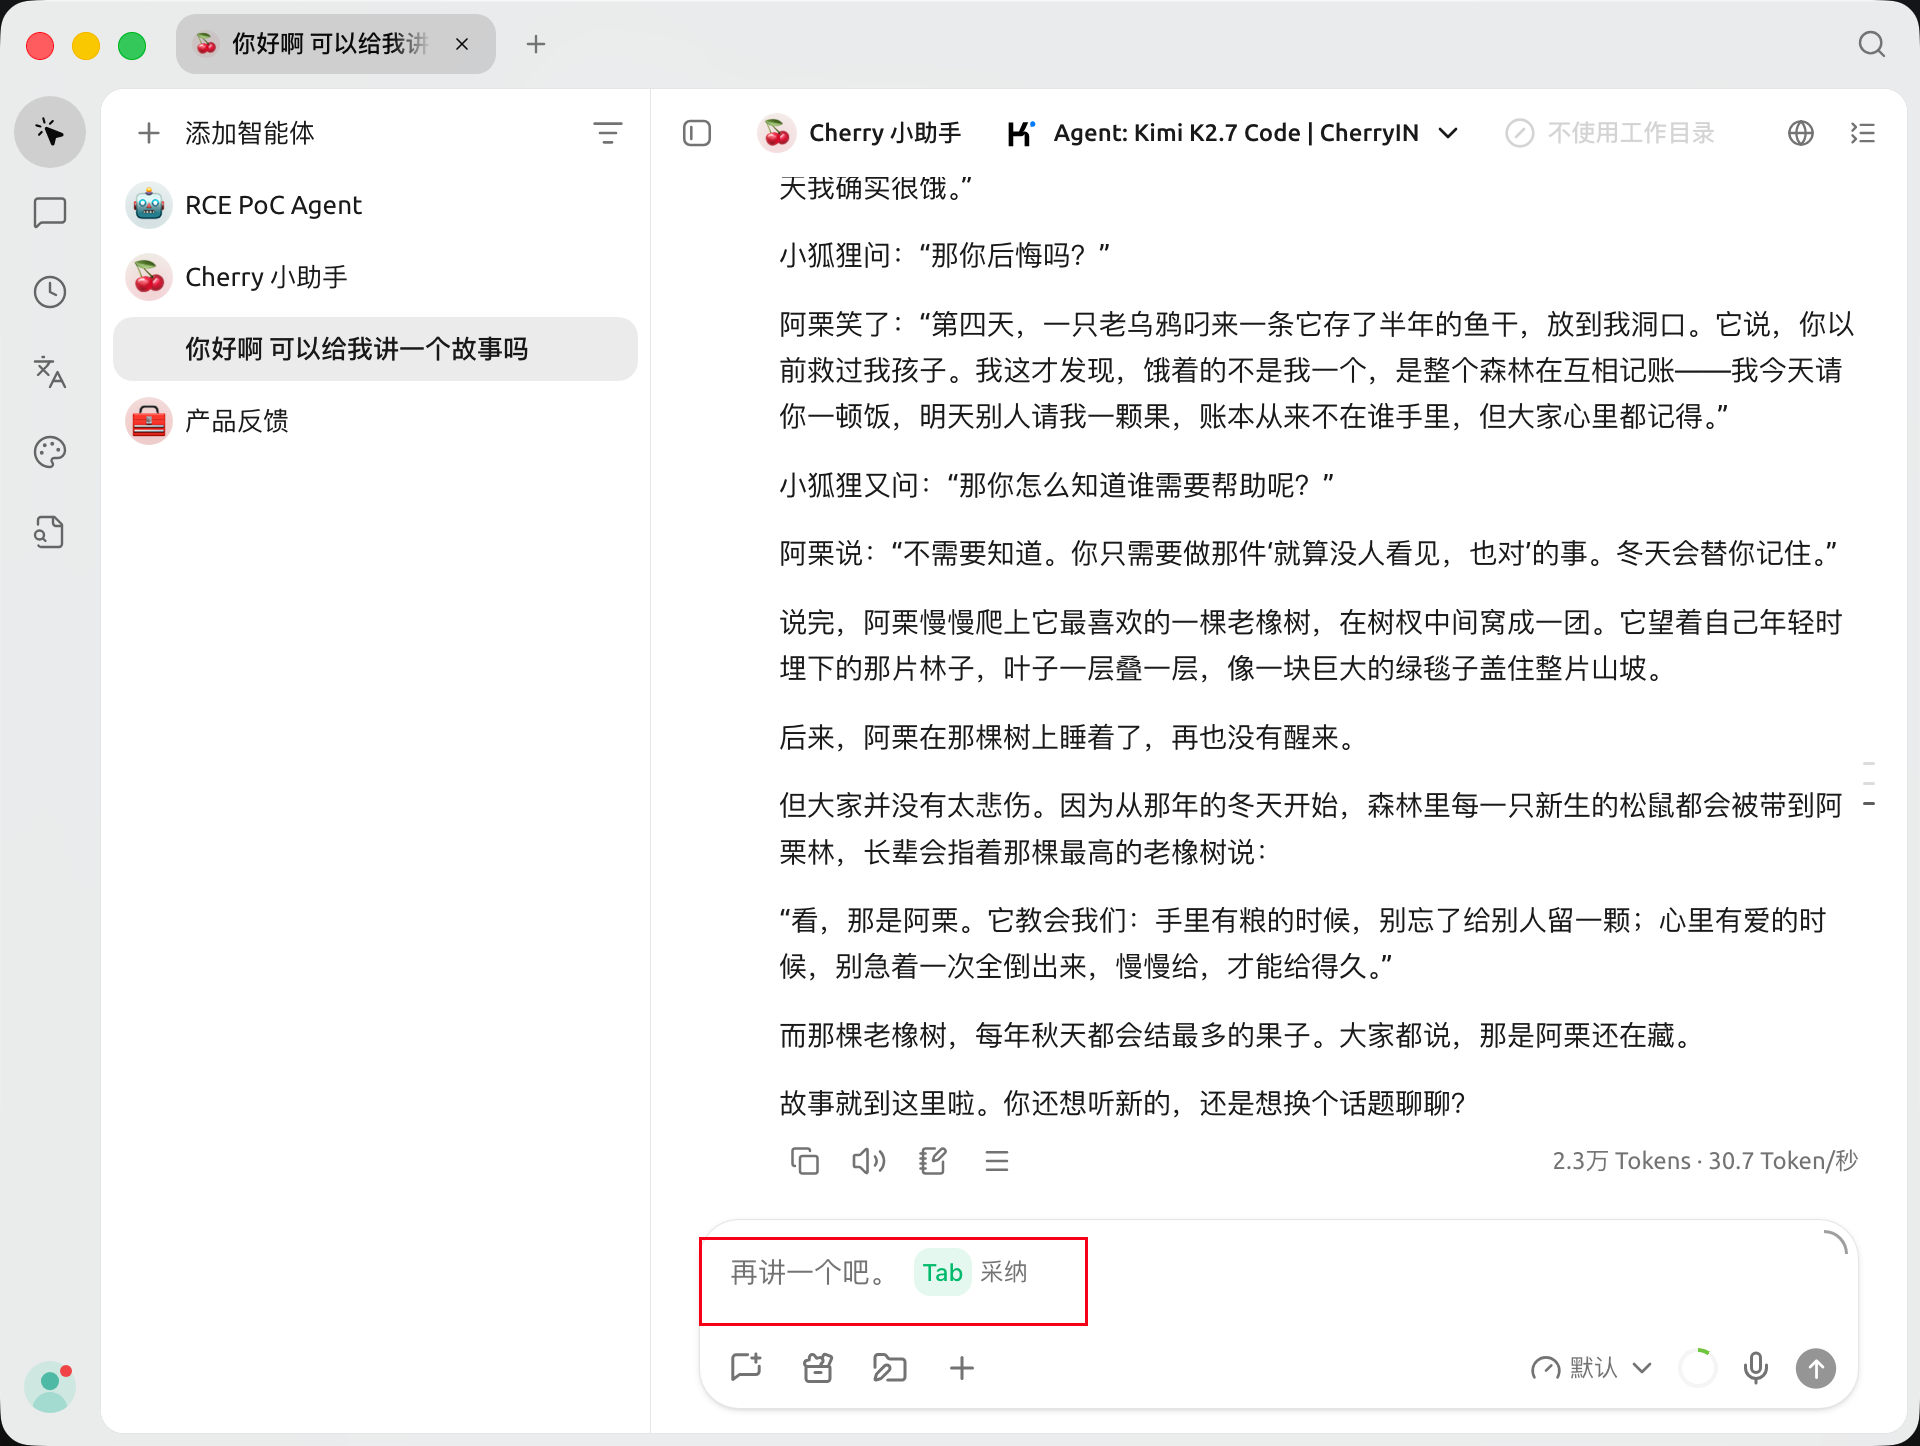
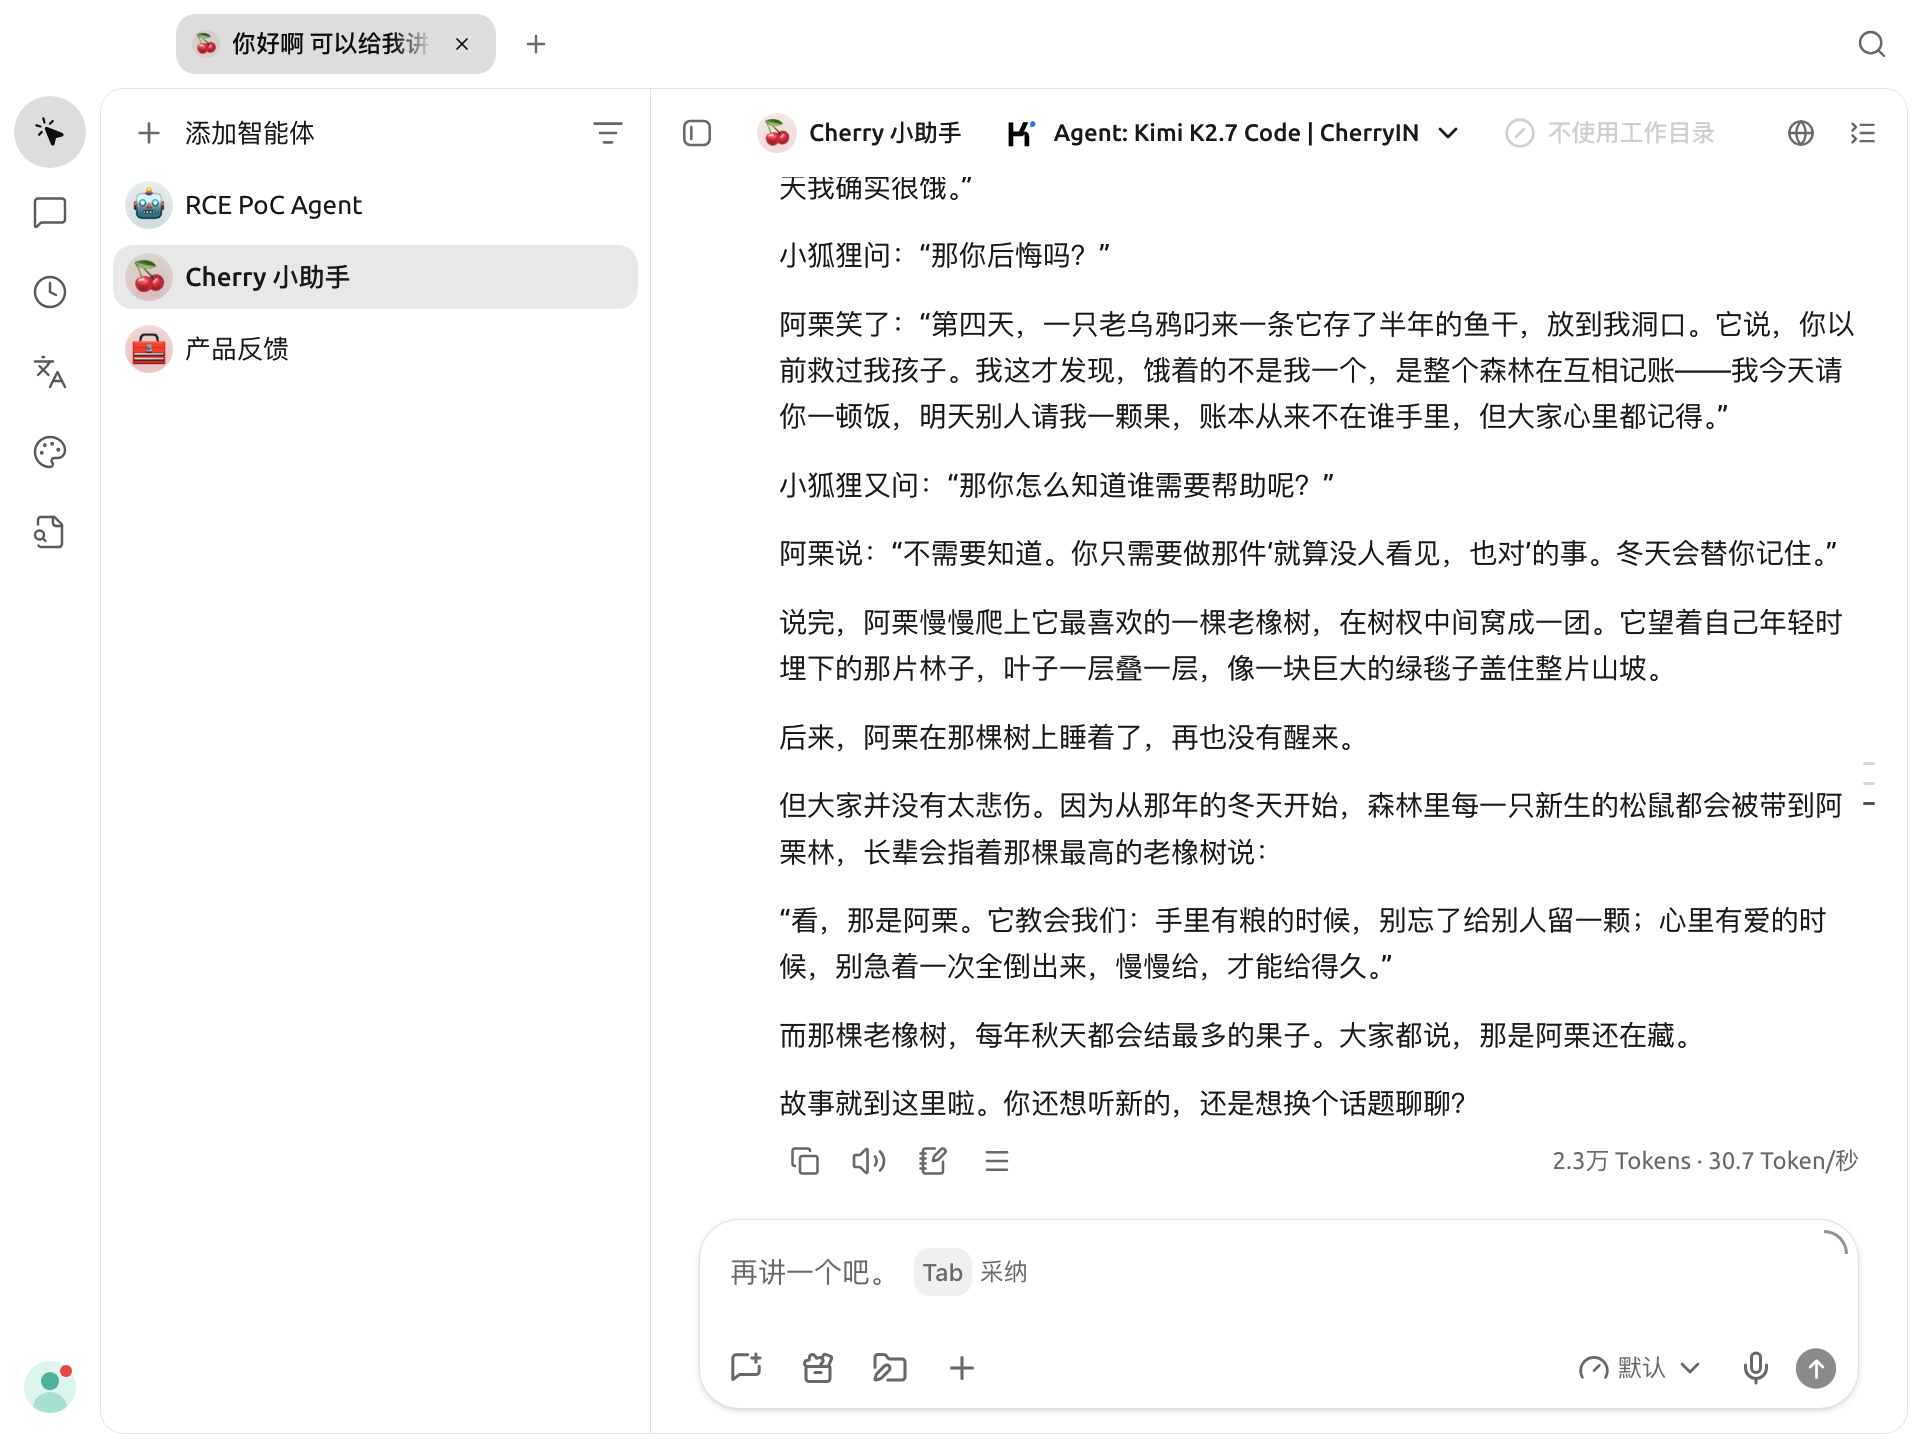
perf(agent-composer): start suggestions promptly with smaller context

diff --git a/src/renderer/components/composer/variants/__tests__/useAgentPromptSuggestion.test.ts b/src/renderer/components/composer/variants/__tests__/useAgentPromptSuggestion.test.ts
@@ -39,7 +39,7 @@ afterEach(() => vi.useRealTimers())
 
 async function complete(rerender: (props: typeof initial) => void, props = initial) {
   rerender({ ...props, busy: false })
-  await act(() => vi.advanceTimersByTimeAsync(300))
+  await act(() => vi.advanceTimersByTimeAsync(0))
 }
 
 it('predicts after completion without adding tools, attachments, or reasoning to context', async () => {
@@ -83,6 +83,19 @@ it.each([
   const { rerender } = renderHook(useAgentPromptSuggestion, { initialProps: props })
   await complete(rerender, props)
   expect(request).toHaveBeenCalledWith('ai.text.generate', expect.objectContaining({ reasoningEffort: expected }))
+})
+
+it('bounds prediction context while retaining the latest text from each message', async () => {
+  const props: typeof initial = {
+    ...initial,
+    messages: [{ ...reply('long'), parts: [{ type: 'text' as const, text: 'old'.repeat(1000) + 'LATEST' }] }]
+  }
+  const { rerender } = renderHook(useAgentPromptSuggestion, { initialProps: props })
+  await complete(rerender, props)
+  const call = request.mock.calls.find(([route]) => route === 'ai.text.generate')![1] as { prompt: string }
+  const context = JSON.parse(call.prompt)
+  expect(context[0].text).toHaveLength(1000)
+  expect(context[0].text.endsWith('LATEST')).toBe(true)
 })
 
 it('does not spend a request when opening history or when disabled or unsuccessful', async () => {

diff --git a/src/renderer/components/composer/variants/agent/useAgentPromptSuggestion.ts b/src/renderer/components/composer/variants/agent/useAgentPromptSuggestion.ts
@@ -46,7 +46,7 @@ export function useAgentPromptSuggestion({
           .filter((part) => part.type === 'text')
           .map((part) => part.text)
           .join('\n')
-          .slice(-2000)
+          .slice(-1000)
       }))
     )
   }, [busy, messages])
@@ -95,7 +95,7 @@ export function useAgentPromptSuggestion({
           }
         })
         .catch(() => undefined)
-    }, 300)
+    }, 0)
     return () => {
       cancelled = true
       clearTimeout(timer)

diff --git a/.agents/notes/proposed/feature/2026-11-14-agent-prompt-suggestions.md b/.agents/notes/proposed/feature/2026-11-14-agent-prompt-suggestions.md
@@ -12,7 +12,7 @@ After an Agent reply, users often type a short follow-up whose intent is already
 
 Enable `agent.input.suggestions.enabled` by default, with an opt-out in the input settings. Only the Agent session composer supplies suggestions; ordinary chat and message editing do not. The user confirmed the default-on behavior during development.
 
-After observing a running turn complete successfully, wait 300 ms and request at most one next prompt from the current model through cancellable `ai.text.generate`. Use only text from the last four messages, at most 2,000 characters per message; omit reasoning, attachments, tool results and system instructions. Disable tools; disable reasoning when supported, otherwise request the lowest supported effort through the shared model-selection resolver. Request no retries and a 10-second transport timeout. Do not silently choose a fallback model. An unavailable model, failure, empty response, multiline response or response longer than 120 characters produces no suggestion. Opening history alone does not generate a prediction.
+After observing a running turn complete successfully, schedule immediately on the next event-loop turn and request at most one next prompt from the current model through cancellable `ai.text.generate`. Use only text from the last four messages, at most 1,000 characters per message; omit reasoning, attachments, tool results and system instructions. Disable tools; disable reasoning when supported, otherwise request the lowest supported effort through the shared model-selection resolver. Request no retries and a 10-second transport timeout. Do not silently choose a fallback model. An unavailable model, failure, empty response, multiline response or response longer than 120 characters produces no suggestion. Opening history alone does not generate a prediction.
 
 Display the suggestion as muted overlay text, separate from the document and its saved draft. Unmodified Tab inserts literal editable text without sending. Escape dismisses it for that reply. User input, attachments, tokens, queued follow-ups, editing, hidden composer layers and new turns suppress suggestions. Cancel stale requests; late results cannot cross a session or model boundary. Preserve quick-panel handling, prompt-variable navigation, Shift+Tab Plan controls and IME composition. Suggestions are not persisted as messages or drafts before acceptance.
 

diff --git a/.agents/notes/proposed/feature/2026-11-14-agent-prompt-suggestions.zh.md b/.agents/notes/proposed/feature/2026-11-14-agent-prompt-suggestions.zh.md
@@ -12,7 +12,7 @@ Status: proposed
 
 `agent.input.suggestions.enabled` 默认开启，在输入设置中提供关闭选项。只有智能体会话输入框提供建议；普通聊天和消息编辑不提供。用户已在开发期间确认默认开启。
 
-观察到正在运行的一轮成功结束后，等待 300 毫秒，通过可取消的 `ai.text.generate` 向当前模型请求至多一条下一问。只使用最近四条消息的文本，每条最多 2,000 个字符；排除推理、附件、工具结果和系统指令。禁用工具；模型支持时关闭推理，否则通过共享的模型选择解析器请求最低支持档位。不重试，传输超时设为 10 秒。不静默切换到备用模型。模型不可用、请求失败、响应为空、多行或超过 120 个字符时不提供建议。仅打开历史记录不会生成预测。
+观察到正在运行的一轮成功结束后，在下一个事件循环立即调度，通过可取消的 `ai.text.generate` 向当前模型请求至多一条下一问。只使用最近四条消息的文本，每条最多 1,000 个字符；排除推理、附件、工具结果和系统指令。禁用工具；模型支持时关闭推理，否则通过共享的模型选择解析器请求最低支持档位。不重试，传输超时设为 10 秒。不静默切换到备用模型。模型不可用、请求失败、响应为空、多行或超过 120 个字符时不提供建议。仅打开历史记录不会生成预测。
 
 建议显示为柔和的叠加文字，独立于编辑器文档及已保存草稿。不带修饰键的 Tab 插入可编辑的纯文本，不发送。Escape 取消该条回复的建议。用户输入、附件、令牌、排队的追问、编辑状态、隐藏的输入层及新一轮运行都会抑制建议。取消过时请求；迟到结果不能跨越会话或模型边界。保留快捷面板处理、提示词变量导航、Shift+Tab 计划模式控制和输入法组词。接受前不将建议持久化为消息或草稿。
 

diff --git a/docs/dev/references/chat/README.md b/docs/dev/references/chat/README.md
@@ -82,7 +82,8 @@ Prediction uses the current model through a cancellable one-shot text request,
 with tools disabled and reasoning turned off when supported, or set to the lowest
 supported effort otherwise. It uses no retries or fallback models and a
 10-second transport timeout. Only text from the last four messages is sent,
-at most 2,000 characters per message. Failures or unusable predictions leave
+at most 1,000 characters per message. Prediction starts on the next event-loop
+turn without a fixed debounce delay. Failures or unusable predictions leave
 the input unchanged; each eligible reply adds at most one request.
 
 ## Ordinary persisted chat context
